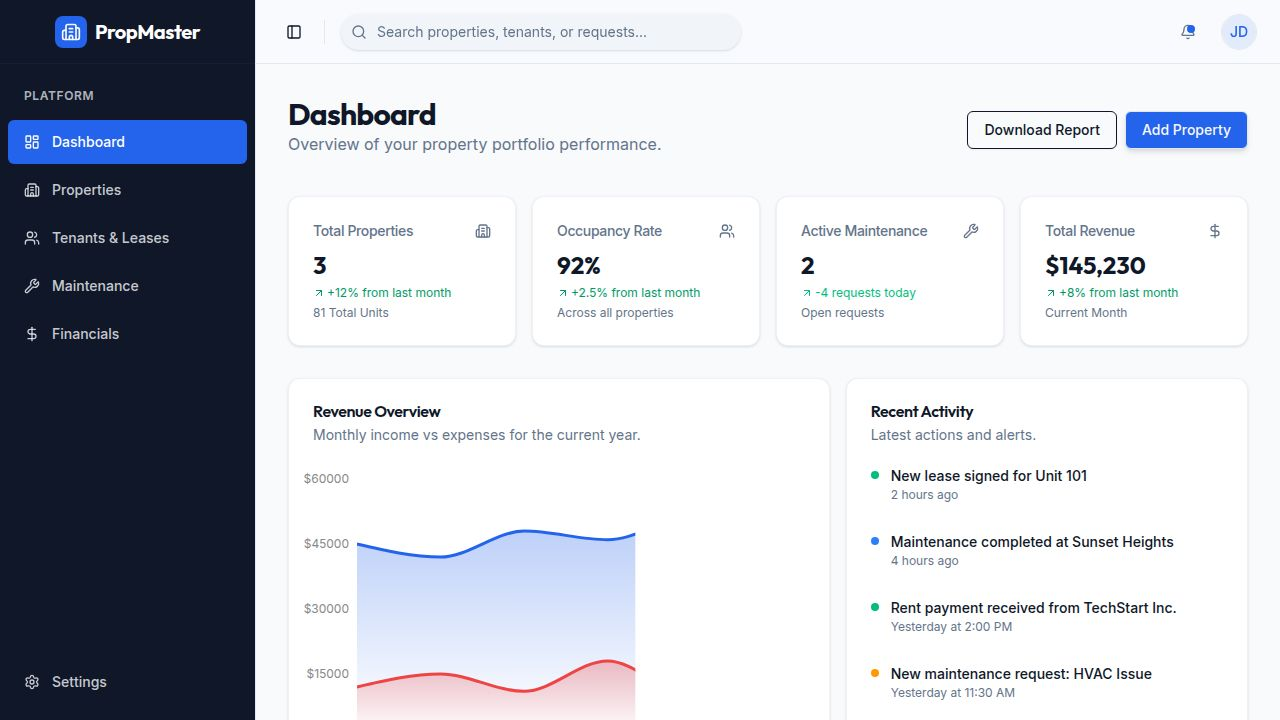
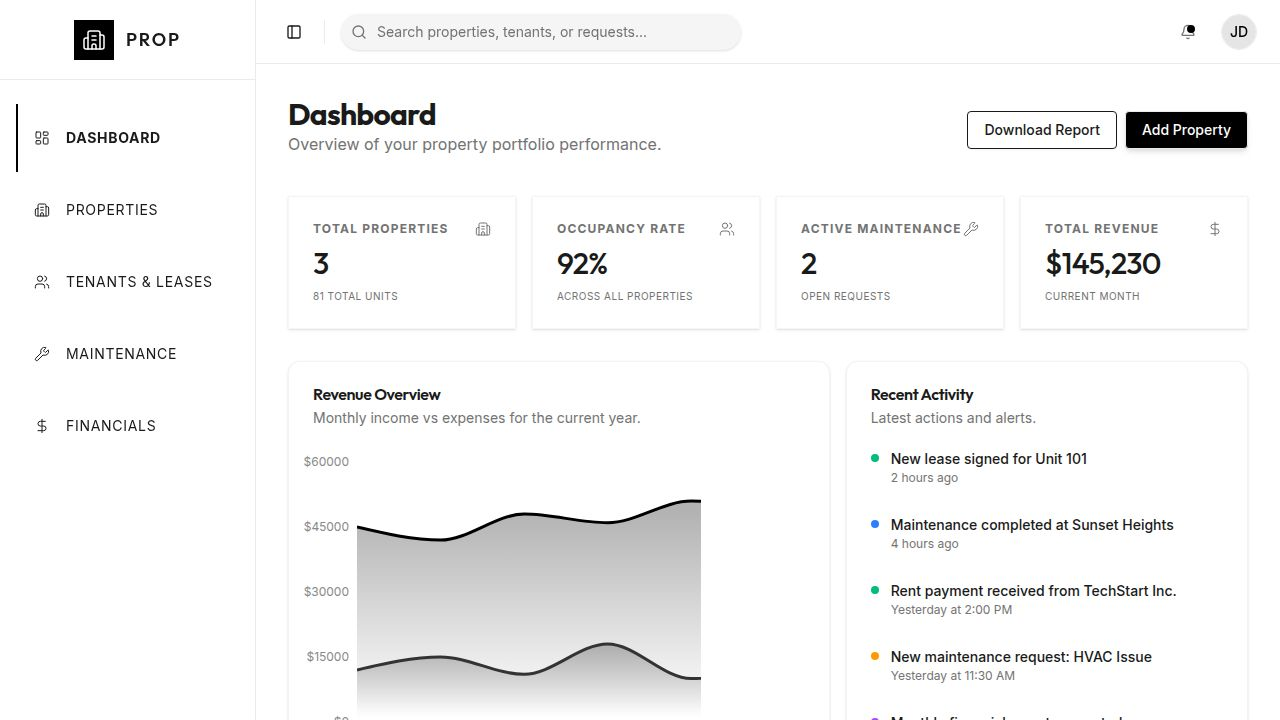
Update the application's visual design to a minimalist and sleek aesthetic
Refactor CSS variables, component styling, and layout properties to implement a monochrome, geometric, and high-contrast design language with sharp edges and refined typography.

Replit-Commit-Author: Agent
Replit-Commit-Session-Id: b450784c-9e54-4d41-9bdd-a62f595a92a4
Replit-Commit-Checkpoint-Type: full_checkpoint
Replit-Commit-Event-Id: 1f470a32-801e-41ab-9ee7-cc1ce206bfeb
Replit-Commit-Screenshot-Url: https://storage.googleapis.com/screenshot-production-us-central1/92584ae6-ae8c-471b-96eb-a02ee5cb6798/b450784c-9e54-4d41-9bdd-a62f595a92a4/Dw0KIKI
Replit-Helium-Checkpoint-Created: true

diff --git a/client/src/index.css b/client/src/index.css
@@ -7,10 +7,10 @@
   --font-sans: 'Inter', sans-serif;
   --font-heading: 'Outfit', sans-serif;
 
-  --radius-sm: calc(var(--radius) - 4px);
-  --radius-md: calc(var(--radius) - 2px);
-  --radius-lg: var(--radius);
-  --radius-xl: calc(var(--radius) + 4px);
+  --radius-sm: 2px;
+  --radius-md: 4px;
+  --radius-lg: 8px;
+  --radius-xl: 12px;
 
   --color-background: hsl(var(--background));
   --color-foreground: hsl(var(--foreground));
@@ -39,114 +39,87 @@
   --color-border: hsl(var(--border));
   --color-input: hsl(var(--input));
   --color-ring: hsl(var(--ring));
-  
-  --color-chart-1: hsl(var(--chart-1));
-  --color-chart-2: hsl(var(--chart-2));
-  --color-chart-3: hsl(var(--chart-3));
-  --color-chart-4: hsl(var(--chart-4));
-  --color-chart-5: hsl(var(--chart-5));
-  
-  --color-sidebar: hsl(var(--sidebar));
-  --color-sidebar-foreground: hsl(var(--sidebar-foreground));
-  --color-sidebar-primary: hsl(var(--sidebar-primary));
-  --color-sidebar-primary-foreground: hsl(var(--sidebar-primary-foreground));
-  --color-sidebar-accent: hsl(var(--sidebar-accent));
-  --color-sidebar-accent-foreground: hsl(var(--sidebar-accent-foreground));
-  --color-sidebar-border: hsl(var(--sidebar-border));
-  --color-sidebar-ring: hsl(var(--sidebar-ring));
 }
 
-/* Modern SaaS Theme - Slate & Blue */
+/* Minimalist Sleek Design - Mono & Neutral */
 :root {
-  --background: 210 40% 98%;
-  --foreground: 222 47% 11%;
+  --background: 0 0% 100%;
+  --foreground: 0 0% 10%;
 
   --card: 0 0% 100%;
-  --card-foreground: 222 47% 11%;
+  --card-foreground: 0 0% 10%;
 
   --popover: 0 0% 100%;
-  --popover-foreground: 222 47% 11%;
+  --popover-foreground: 0 0% 10%;
 
-  --primary: 221 83% 53%; /* Vivid Blue */
-  --primary-foreground: 210 40% 98%;
+  --primary: 0 0% 0%; /* Pure Black */
+  --primary-foreground: 0 0% 100%;
 
-  --secondary: 210 40% 96.1%;
-  --secondary-foreground: 222 47% 11.2%;
+  --secondary: 0 0% 96%;
+  --secondary-foreground: 0 0% 10%;
 
-  --muted: 210 40% 96.1%;
-  --muted-foreground: 215.4 16.3% 46.9%;
+  --muted: 0 0% 96%;
+  --muted-foreground: 0 0% 45%;
 
-  --accent: 210 40% 96.1%;
-  --accent-foreground: 222 47% 11.2%;
+  --accent: 0 0% 98%;
+  --accent-foreground: 0 0% 10%;
 
-  --destructive: 0 84.2% 60.2%;
-  --destructive-foreground: 210 40% 98%;
+  --destructive: 0 0% 20%;
+  --destructive-foreground: 0 0% 100%;
 
-  --border: 214.3 31.8% 91.4%;
-  --input: 214.3 31.8% 91.4%;
-  --ring: 221 83% 53%;
+  --border: 0 0% 92%;
+  --input: 0 0% 92%;
+  --ring: 0 0% 0%;
 
-  --radius: 0.5rem;
+  --radius: 0.25rem;
 
-  --chart-1: 221 83% 53%;
-  --chart-2: 173 58% 39%;
-  --chart-3: 197 37% 24%;
-  --chart-4: 43 74% 66%;
-  --chart-5: 27 87% 67%;
-
-  --sidebar: 222 47% 11%; /* Dark sidebar for contrast */
-  --sidebar-foreground: 210 40% 98%;
-  --sidebar-primary: 221 83% 53%;
+  --sidebar: 0 0% 100%;
+  --sidebar-foreground: 0 0% 10%;
+  --sidebar-primary: 0 0% 0%;
   --sidebar-primary-foreground: 0 0% 100%;
-  --sidebar-accent: 217 33% 17%;
-  --sidebar-accent-foreground: 210 40% 98%;
-  --sidebar-border: 217 33% 17%;
-  --sidebar-ring: 221 83% 53%;
+  --sidebar-accent: 0 0% 96%;
+  --sidebar-accent-foreground: 0 0% 10%;
+  --sidebar-border: 0 0% 92%;
+  --sidebar-ring: 0 0% 0%;
 }
 
 .dark {
-  --background: 222 47% 11%;
-  --foreground: 210 40% 98%;
+  --background: 0 0% 4%;
+  --foreground: 0 0% 98%;
 
-  --card: 222 47% 11%;
-  --card-foreground: 210 40% 98%;
+  --card: 0 0% 6%;
+  --card-foreground: 0 0% 98%;
 
-  --popover: 222 47% 11%;
-  --popover-foreground: 210 40% 98%;
+  --popover: 0 0% 6%;
+  --popover-foreground: 0 0% 98%;
 
-  --primary: 217 91% 60%;
-  --primary-foreground: 222 47.4% 11.2%;
+  --primary: 0 0% 100%;
+  --primary-foreground: 0 0% 4%;
 
-  --secondary: 217.2 32.6% 17.5%;
-  --secondary-foreground: 210 40% 98%;
+  --secondary: 0 0% 12%;
+  --secondary-foreground: 0 0% 98%;
 
-  --muted: 217.2 32.6% 17.5%;
-  --muted-foreground: 215 20.2% 65.1%;
+  --muted: 0 0% 12%;
+  --muted-foreground: 0 0% 60%;
 
-  --accent: 217.2 32.6% 17.5%;
-  --accent-foreground: 210 40% 98%;
+  --accent: 0 0% 10%;
+  --accent-foreground: 0 0% 98%;
 
-  --destructive: 0 62.8% 30.6%;
-  --destructive-foreground: 210 40% 98%;
+  --destructive: 0 0% 98%;
+  --destructive-foreground: 0 0% 4%;
 
-  --border: 217.2 32.6% 17.5%;
-  --input: 217.2 32.6% 17.5%;
-  --ring: 224.3 76.3% 48%;
+  --border: 0 0% 14%;
+  --input: 0 0% 14%;
+  --ring: 0 0% 100%;
 
-  --chart-1: 220 70% 50%;
-  --chart-2: 160 60% 45%;
-  --chart-3: 30 80% 55%;
-  --chart-4: 280 65% 60%;
-  --chart-5: 340 75% 55%;
-
-  --sidebar: 222 47% 11%;
-  --sidebar-foreground: 210 40% 98%;
-  --sidebar-primary: 221 83% 53%;
-  --sidebar-primary-foreground: 0 0% 100%;
-  --sidebar-accent: 217 33% 17%;
-  --sidebar-accent-foreground: 210 40% 98%;
-  --sidebar-border: 217 33% 17%;
-  --sidebar-ring: 221 83% 53%;
+  --sidebar: 0 0% 6%;
+  --sidebar-foreground: 0 0% 98%;
+  --sidebar-primary: 0 0% 100%;
+  --sidebar-primary-foreground: 0 0% 4%;
+  --sidebar-accent: 0 0% 12%;
+  --sidebar-accent-foreground: 0 0% 98%;
+  --sidebar-border: 0 0% 14%;
+  --sidebar-ring: 0 0% 100%;
 }
 
 @layer base {
@@ -157,6 +130,15 @@
     @apply font-sans antialiased bg-background text-foreground;
   }
   h1, h2, h3, h4, h5, h6 {
-    @apply font-heading tracking-tight;
+    @apply font-heading tracking-tight font-medium;
   }
+}
+
+/* Custom Minimalist Shadow */
+.minimal-shadow {
+  box-shadow: 0 1px 2px 0 rgba(0, 0, 0, 0.05);
+}
+
+.card-hover:hover {
+  @apply border-foreground/10 translate-y-[-2px] transition-all duration-300;
 }

diff --git a/client/src/pages/dashboard.tsx b/client/src/pages/dashboard.tsx
@@ -136,29 +136,29 @@ export default function Dashboard() {
 
       <div className="grid gap-4 md:grid-cols-2 lg:grid-cols-3">
         {properties.map(property => (
-          <Card key={property.id} className="overflow-hidden hover:shadow-md transition-shadow duration-300 border-border/60 group">
-            <div className="relative h-48 w-full overflow-hidden">
+          <Card key={property.id} className="rounded-none overflow-hidden hover:border-primary transition-all duration-500 border-border/50 group">
+            <div className="relative h-64 w-full overflow-hidden grayscale hover:grayscale-0 transition-all duration-700">
                <img 
                 src={property.image} 
                 alt={property.name}
-                className="h-full w-full object-cover transition-transform duration-500 group-hover:scale-105"
+                className="h-full w-full object-cover transition-transform duration-1000 group-hover:scale-105"
               />
-              <div className="absolute top-2 right-2 bg-background/90 backdrop-blur-sm px-2 py-1 rounded-md text-xs font-semibold shadow-sm border border-border/50">
+              <div className="absolute top-4 right-4 bg-primary text-primary-foreground px-3 py-1 text-[10px] uppercase tracking-widest font-bold">
                 {property.type}
               </div>
             </div>
             <CardHeader className="pb-2">
-              <CardTitle className="font-heading text-lg">{property.name}</CardTitle>
-              <CardDescription className="line-clamp-1">{property.address}</CardDescription>
+              <CardTitle className="font-heading text-lg uppercase tracking-tight">{property.name}</CardTitle>
+              <CardDescription className="text-[10px] uppercase tracking-widest">{property.address}</CardDescription>
             </CardHeader>
             <CardContent>
-              <div className="flex justify-between text-sm mb-4">
-                <span className="text-muted-foreground">Occupancy</span>
-                <span className="font-medium text-foreground">{property.occupancyRate}%</span>
+              <div className="flex justify-between text-[10px] uppercase tracking-widest mb-2 font-bold">
+                <span>Occupancy</span>
+                <span>{property.occupancyRate}%</span>
               </div>
-              <div className="w-full bg-secondary h-2 rounded-full overflow-hidden">
+              <div className="w-full bg-secondary h-[1px]">
                 <div 
-                  className="bg-primary h-full rounded-full" 
+                  className="bg-primary h-full" 
                   style={{ width: `${property.occupancyRate}%` }} 
                 />
               </div>
@@ -172,24 +172,16 @@ export default function Dashboard() {
 
 function StatsCard({ title, value, description, icon: Icon, trend, trendUp, trendColor }: any) {
   return (
-    <Card className="shadow-sm border-border/60 hover:border-primary/20 transition-colors">
+    <Card className="rounded-none border-border/50 bg-background hover:border-primary transition-all duration-300">
       <CardHeader className="flex flex-row items-center justify-between space-y-0 pb-2">
-        <CardTitle className="text-sm font-medium text-muted-foreground font-sans">
+        <CardTitle className="text-xs font-bold uppercase tracking-widest text-muted-foreground font-sans">
           {title}
         </CardTitle>
-        <Icon className="h-4 w-4 text-muted-foreground" />
+        <Icon className="h-4 w-4 text-muted-foreground stroke-[1.5]" />
       </CardHeader>
       <CardContent>
-        <div className="text-2xl font-bold font-heading">{value}</div>
-        <p className="text-xs text-muted-foreground mt-1 flex items-center">
-          {trend && (
-            <span className={`flex items-center mr-1 ${trendColor ? trendColor : (trendUp ? "text-emerald-600" : "text-destructive")}`}>
-              {trendUp ? <ArrowUpRight className="h-3 w-3 mr-0.5" /> : <ArrowDownRight className="h-3 w-3 mr-0.5" />}
-              {trend}
-            </span>
-          )}
-        </p>
-        {description && <p className="text-xs text-muted-foreground mt-1">{description}</p>}
+        <div className="text-3xl font-medium font-heading tracking-tight">{value}</div>
+        {description && <p className="text-[10px] uppercase tracking-wider text-muted-foreground mt-2">{description}</p>}
       </CardContent>
     </Card>
   );

diff --git a/client/src/components/layout.tsx b/client/src/components/layout.tsx
@@ -94,54 +94,34 @@ export default function Layout({ children }: { children: React.ReactNode }) {
 function AppSidebar({ location, navItems }: { location: string, navItems: any[] }) {
   return (
     <Sidebar collapsible="icon" className="border-r border-border bg-sidebar text-sidebar-foreground">
-      <SidebarHeader className="h-16 flex items-center justify-center border-b border-sidebar-border/50">
-        <div className="flex items-center gap-2 px-2 font-heading font-bold text-xl tracking-tight text-sidebar-primary-foreground">
-          <div className="flex h-8 w-8 items-center justify-center rounded-lg bg-primary text-primary-foreground">
-            <Building2 className="size-5" />
+      <SidebarHeader className="h-20 flex items-center justify-center border-b border-sidebar-border/30">
+        <div className="flex items-center gap-3 px-2 font-heading font-semibold text-lg tracking-tight">
+          <div className="flex h-10 w-10 items-center justify-center rounded-none bg-primary text-primary-foreground">
+            <Building2 className="size-6 stroke-[1.5]" />
           </div>
-          <span className="group-data-[collapsible=icon]:hidden">PropMaster</span>
+          <span className="group-data-[collapsible=icon]:hidden uppercase tracking-widest">PROP</span>
         </div>
       </SidebarHeader>
       
       <SidebarContent className="gap-0">
-        <SidebarGroup className="pt-4">
-          <SidebarGroupLabel className="text-sidebar-foreground/70 uppercase tracking-wider text-xs font-semibold px-4 mb-2">Platform</SidebarGroupLabel>
+        <SidebarGroup className="pt-6">
           <SidebarGroupContent>
-            <SidebarMenu>
+            <SidebarMenu className="gap-1 px-2">
               {navItems.map((item) => (
                 <SidebarMenuItem key={item.title}>
                   <SidebarMenuButton 
                     asChild 
                     isActive={location === item.url || (item.url !== "/" && location.startsWith(item.url))}
                     tooltip={item.title}
-                    className="gap-3 px-4 py-3 h-auto text-sidebar-foreground/80 hover:bg-sidebar-accent hover:text-sidebar-accent-foreground data-[active=true]:bg-sidebar-primary data-[active=true]:text-sidebar-primary-foreground transition-all duration-200"
+                    className="gap-4 px-4 py-6 h-auto rounded-none text-sidebar-foreground/60 hover:bg-sidebar-accent hover:text-sidebar-accent-foreground data-[active=true]:bg-transparent data-[active=true]:text-sidebar-primary data-[active=true]:font-bold border-l-2 border-transparent data-[active=true]:border-primary transition-all duration-200"
                   >
                     <Link href={item.url}>
-                      <item.icon className="h-5 w-5" />
-                      <span className="font-medium text-sm">{item.title}</span>
+                      <item.icon className="h-5 w-5 stroke-[1.5]" />
+                      <span className="text-sm uppercase tracking-wider">{item.title}</span>
                     </Link>
                   </SidebarMenuButton>
                 </SidebarMenuItem>
               ))}
-            </SidebarMenu>
-          </SidebarGroupContent>
-        </SidebarGroup>
-
-        <SidebarGroup className="mt-auto pb-4">
-          <SidebarGroupContent>
-            <SidebarMenu>
-              <SidebarMenuItem>
-                <SidebarMenuButton 
-                  asChild 
-                  tooltip="Settings"
-                  className="gap-3 px-4 py-3 h-auto text-sidebar-foreground/80 hover:bg-sidebar-accent hover:text-sidebar-accent-foreground transition-all duration-200"
-                >
-                  <Link href="/settings">
-                    <Settings className="h-5 w-5" />
-                    <span className="font-medium text-sm">Settings</span>
-                  </Link>
-                </SidebarMenuButton>
-              </SidebarMenuItem>
             </SidebarMenu>
           </SidebarGroupContent>
         </SidebarGroup>
